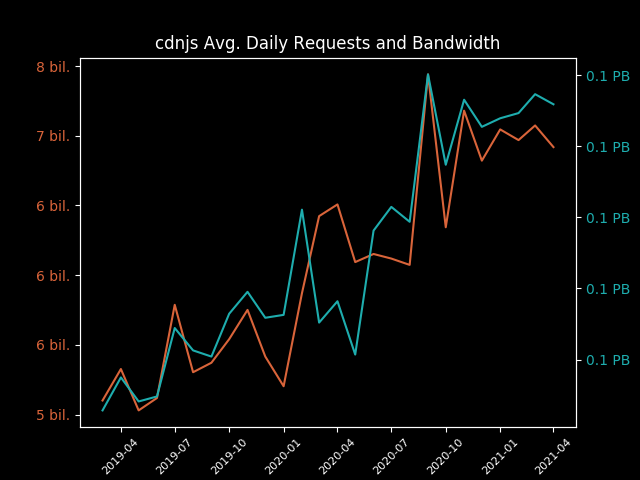
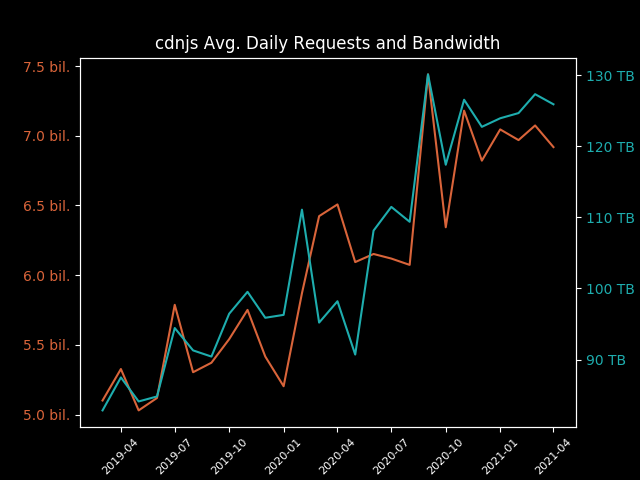
Graphs: Improve new graph outputs

diff --git a/graph.py b/graph.py
@@ -49,7 +49,7 @@ def top_5_graph(data_by_month, limit, title, filename):
 
     # Set the correct order (1 -> 5, newest -> oldest)
     order = []
-    for month in list(data_by_month.keys())[::-1]:
+    for month in sorted(list(data_by_month.keys()), reverse=True):
         for item in data_by_month[month]:
             if item not in order:
                 order.append(item)
@@ -59,12 +59,12 @@ def top_5_graph(data_by_month, limit, title, filename):
     fig, ax = plt.subplots()
     ax.set(ylim=(limit + 0.5, 0.5))
     ax.set_yticks(range(1, limit + 1)[::-1])
-    for file in order:
-        ax.plot(*plot[file],
-                label=(file if file in order[:8] else None),
+    for item in order:
+        ax.plot(*plot[item],
+                label=(item if item in order[:8] else None),
                 marker="o",
                 markersize=4,
-                color=(None if file in order[:8] else (0.2, 0.2, 0.2, 1)))
+                color=(None if item in order[:8] else (0.2, 0.2, 0.2, 1)))
     ax.set_title(title)
     ax.tick_params(axis="x", labelsize=8, labelrotation=45)
     fig.subplots_adjust(bottom=0.5)
@@ -150,15 +150,25 @@ def requests_and_bandwidth_graph(requests_data, bandwidth_data, requests_title, 
     plt.style.use("dark_background")
     fig, ax1 = plt.subplots()
 
+    use_precise_bil = max(requests_data[1]) - min(requests_data[1]) < 4000000000
+
     ax1.plot(*requests_data, label=requests_title, color="#D9643A")
     ax1.tick_params(axis="y", labelcolor="#D9643A")
-    ax1.set_yticklabels(["{:,.0f} bil.".format(x / 1000000000) for x in ax1.get_yticks().tolist()])
+    if use_precise_bil:
+        ax1.set_yticklabels(["{:,.1f} bil.".format(x / 1000000000) for x in ax1.get_yticks().tolist()])
+    else:
+        ax1.set_yticklabels(["{:,.0f} bil.".format(x / 1000000000) for x in ax1.get_yticks().tolist()])
     ax1.legend(loc="upper left", bbox_to_anchor=(0, -0.175), ncol=1, borderpad=0.75, handletextpad=1.5)
+
+    use_pb = (sum(bandwidth_data[1]) / len(bandwidth_data[1])) > 1000000
 
     ax2 = ax1.twinx()
     ax2.plot(*bandwidth_data, label=bandwidth_title, color="#1EADAE")
     ax2.tick_params(axis="y", labelcolor="#1EADAE")
-    ax2.set_yticklabels(["{:,.1f} PB".format(x / 1000000) for x in ax2.get_yticks().tolist()])
+    if use_pb:
+        ax2.set_yticklabels(["{:,.1f} PB".format(x / 1000000) for x in ax2.get_yticks().tolist()])
+    else:
+        ax2.set_yticklabels(["{:,.0f} TB".format(x / 1000) for x in ax2.get_yticks().tolist()])
     ax2.legend(loc="upper right", bbox_to_anchor=(1, -0.175), ncol=1, borderpad=0.75, handletextpad=1.5)
 
     ax1.set_title(title)
